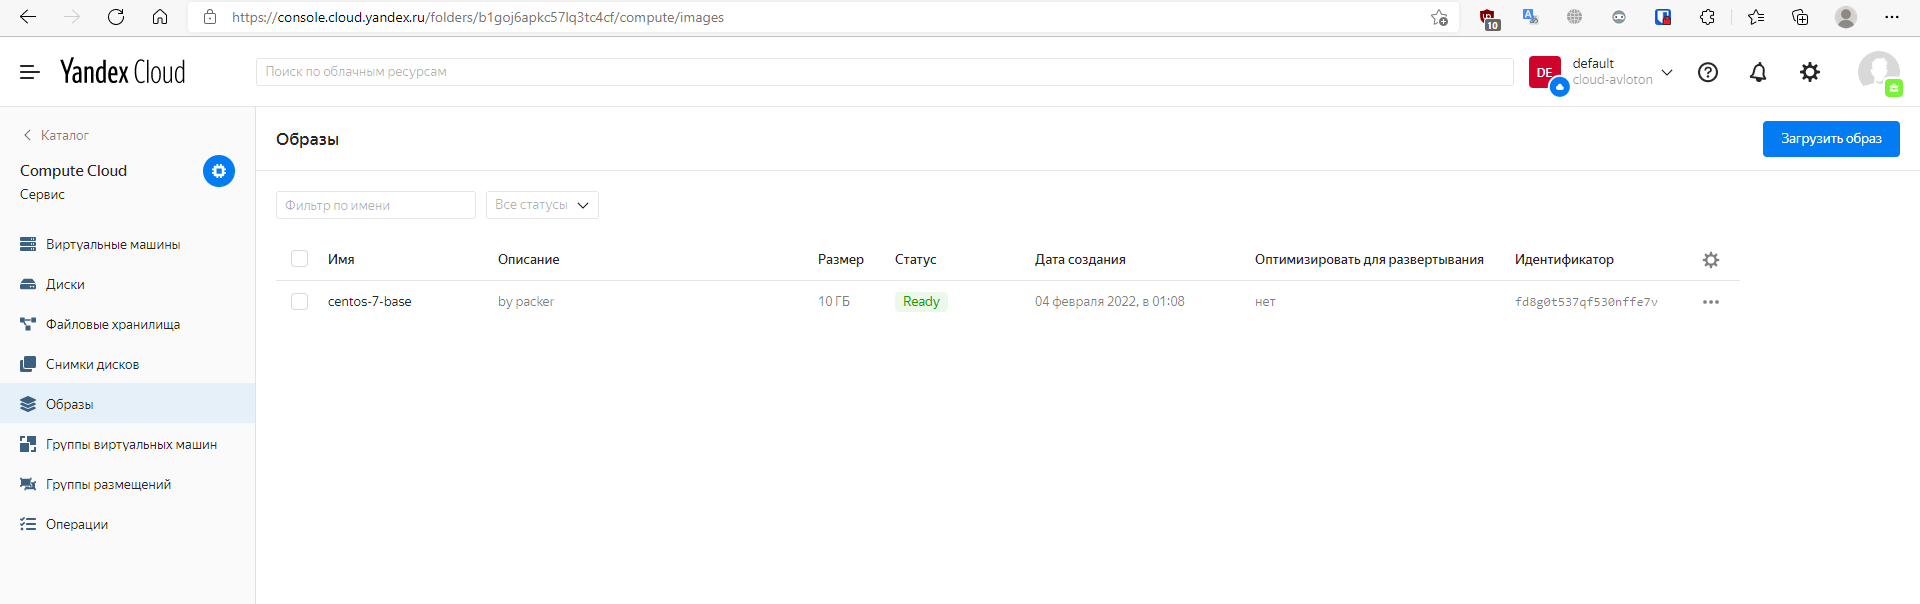
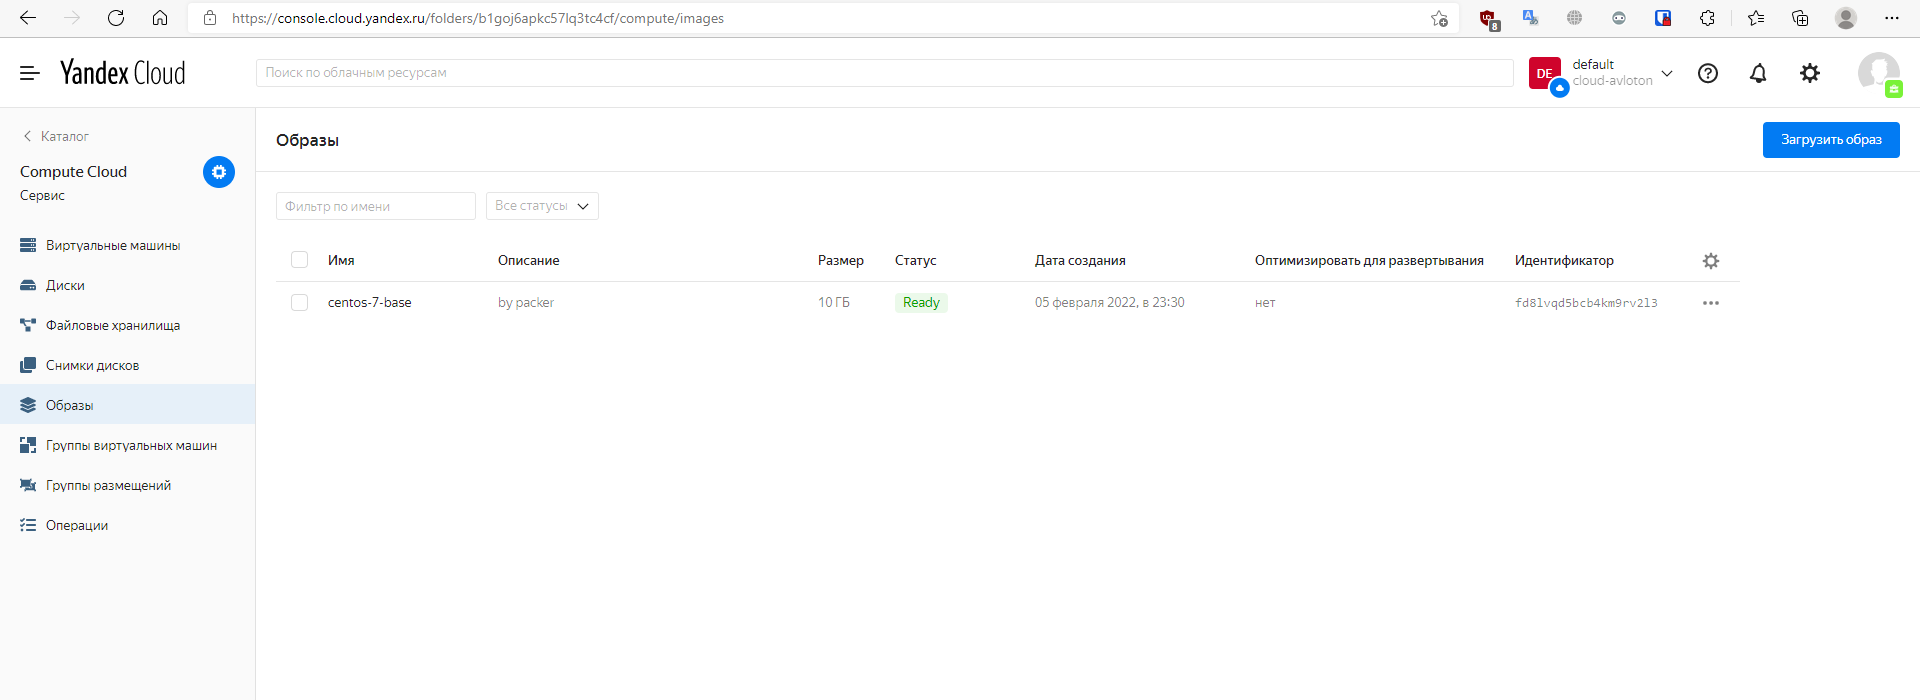
Домашнее задание к занятию "5.4. Оркестрация группой Docker контейнеров на примере Docker Compose"

diff --git a/homeWork/5.4/README.md b/homeWork/5.4/README.md
@@ -6,14 +6,22 @@
 
 Создать собственный образ операционной системы с помощью Packer.
 
+![alt_text](https://github.com/avloton/devops-netology/raw/main/homeWork/5.4/img/packer.png)
+
+![alt_text](https://github.com/avloton/devops-netology/raw/main/homeWork/5.4/img/packer_console.png)
+
+
 ## Задача 2
 
 Создать вашу первую виртуальную машину в Яндекс.Облаке.
+
+![alt_text](https://github.com/avloton/devops-netology/raw/main/homeWork/5.4/img/terraform_node01.png)
 
 ## Задача 3
 
 Создать ваш первый готовый к боевой эксплуатации компонент мониторинга, состоящий из стека микросервисов.
 
+![alt_text](https://github.com/avloton/devops-netology/raw/main/homeWork/5.4/img/grafana.png)
 
 ## Задача 4 (*)
 
